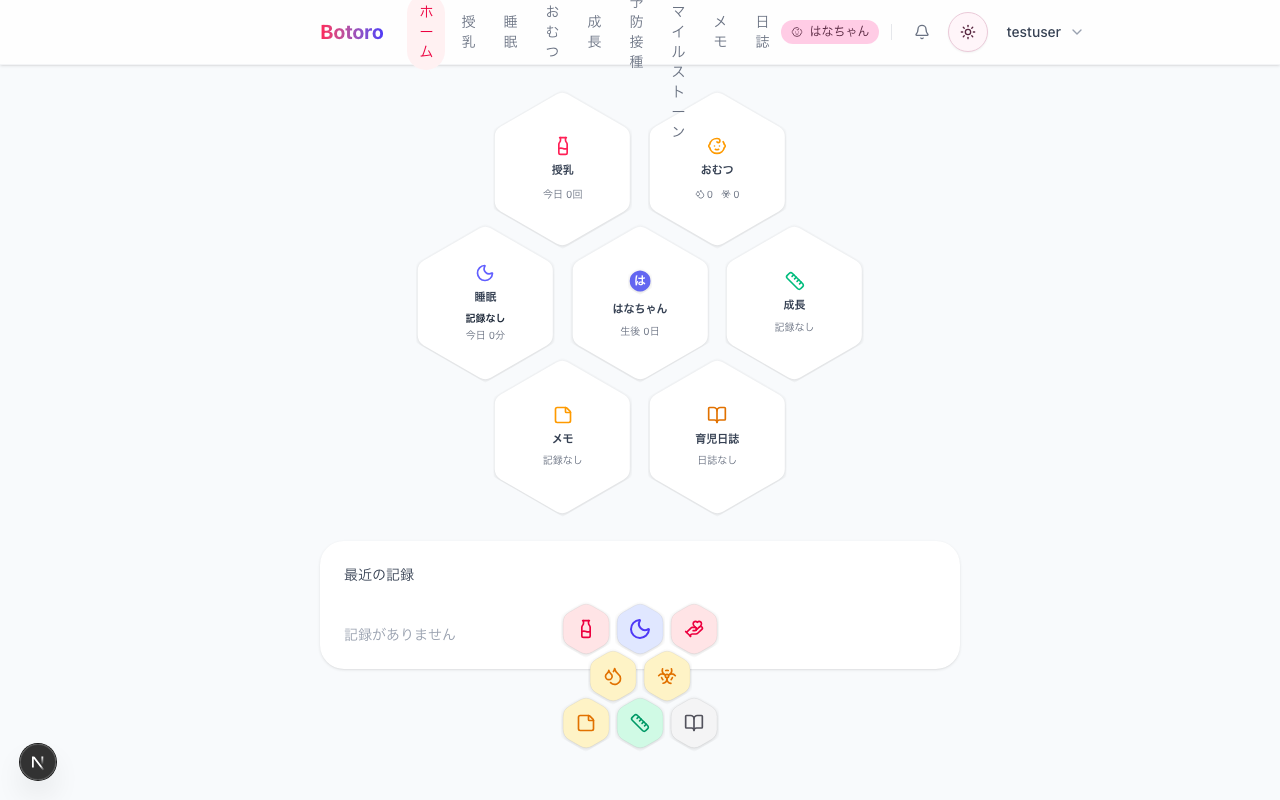
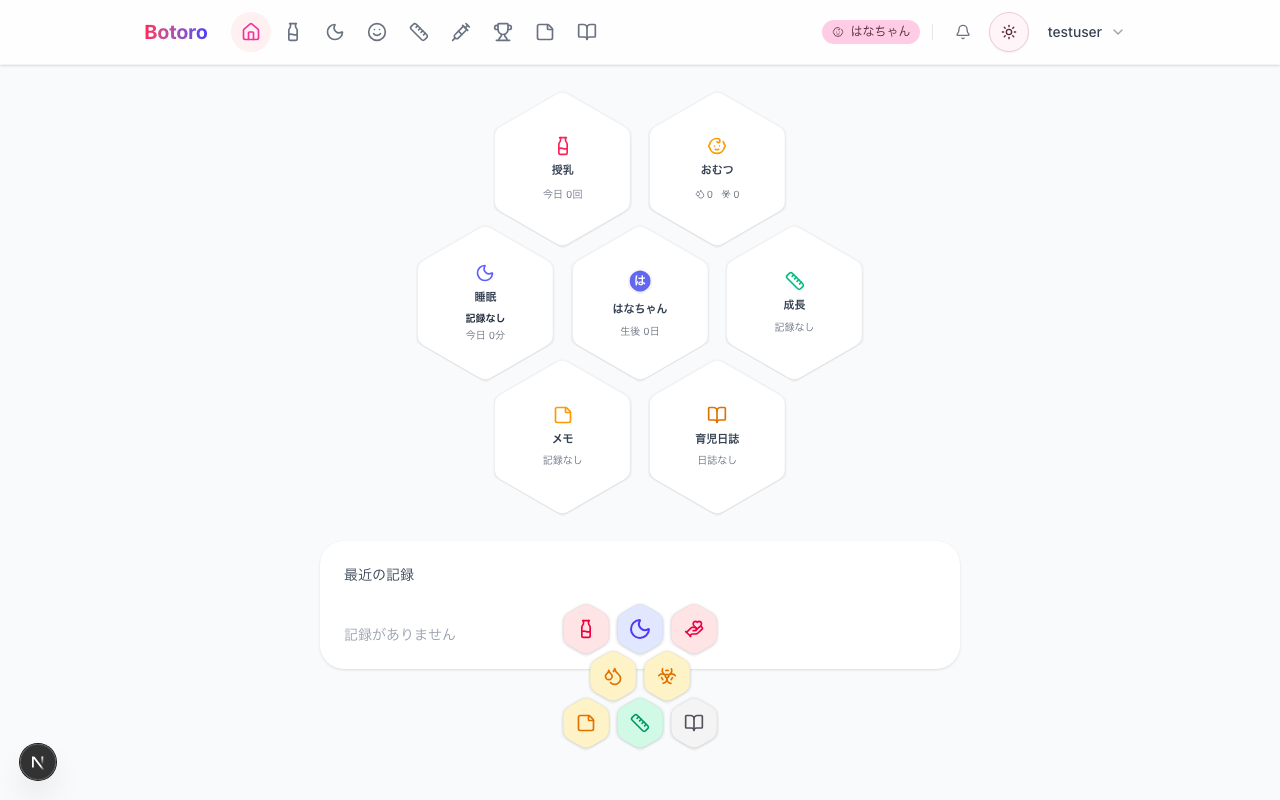
feat: デスクトップ版ヘッダーの表示崩れをアイコン化で修正
- メニュー項目が多いことによるデスクトップ版ヘッダーの文字溢れを修正
- テキストラベルをアイコンに差し替え、広い画面幅のときのみテキストを表示するように変更
- 修正後の最新UIでスクリーンショットを再撮影
- Co-authored-by: Gemini <gemini@google.com>

diff --git a/frontend/app/(dashboard)/layout.tsx b/frontend/app/(dashboard)/layout.tsx
@@ -129,24 +129,25 @@ export default function DashboardLayout({
         <div className="min-h-screen bg-slate-50 dark:bg-zinc-950 flex flex-col transition-colors">
             {/* Desktop Navbar */}
             <header className="hidden md:block sticky top-0 z-50 bg-white/80 dark:bg-zinc-900/80 backdrop-blur-sm border-b border-gray-100 dark:border-zinc-800 shadow-sm transition-colors">
-                <div className="max-w-2xl mx-auto px-4 h-16 flex items-center justify-between">
+                <div className="max-w-5xl mx-auto px-4 h-16 flex items-center justify-between">
                     <div className="flex items-center gap-6">
-                        <Link href="/dashboard" className="text-xl font-bold bg-gradient-to-r from-rose-500 to-indigo-600 bg-clip-text text-transparent">
+                        <Link href="/dashboard" className="text-xl font-bold bg-gradient-to-r from-rose-500 to-indigo-600 bg-clip-text text-transparent shrink-0">
                             Botoro
                         </Link>
-                        <nav className="flex items-center gap-1">
+                        <nav className="flex items-center gap-0.5">
                             {navItems.map(item => (
                                 <Link
                                     key={item.href}
                                     href={item.href}
+                                    title={item.label}
                                     className={cn(
-                                        "px-3 py-2 rounded-xl text-sm font-medium transition-all duration-200",
+                                        "p-2.5 rounded-xl transition-all duration-200",
                                         pathname === item.href
                                             ? "bg-rose-50 dark:bg-rose-900/20 text-rose-600 dark:text-rose-400"
                                             : "text-gray-500 dark:text-zinc-400 hover:text-gray-900 dark:hover:text-zinc-200 hover:bg-gray-50 dark:hover:bg-zinc-800/50"
                                     )}
                                 >
-                                    {item.label}
+                                    <item.Icon className={cn("h-5 w-5", pathname === item.href && item.color)} />
                                 </Link>
                             ))}
                         </nav>
